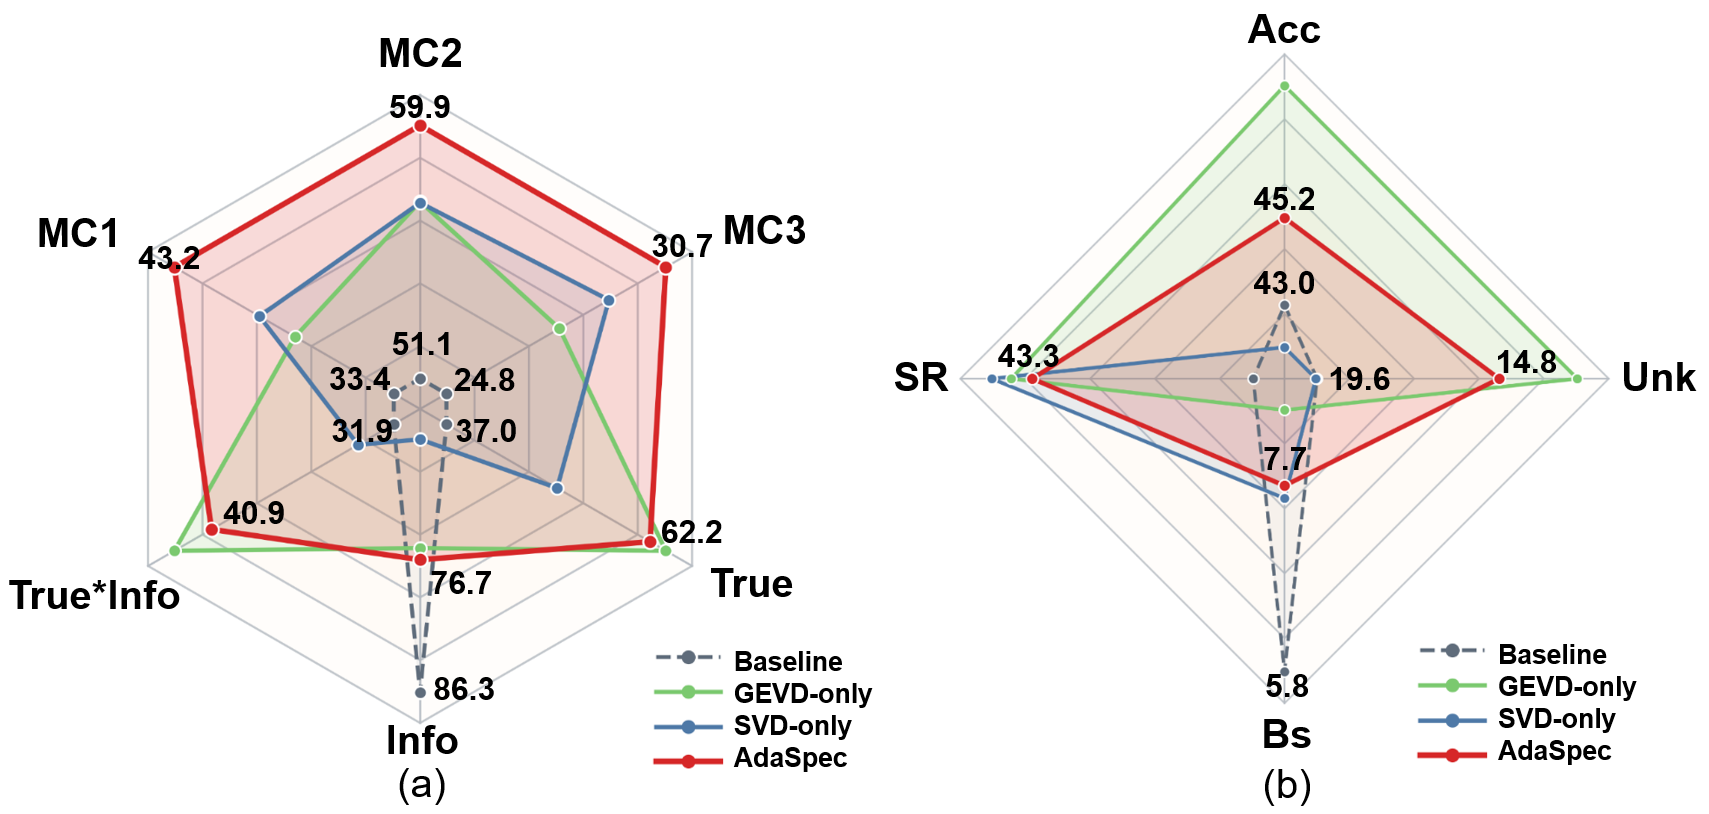
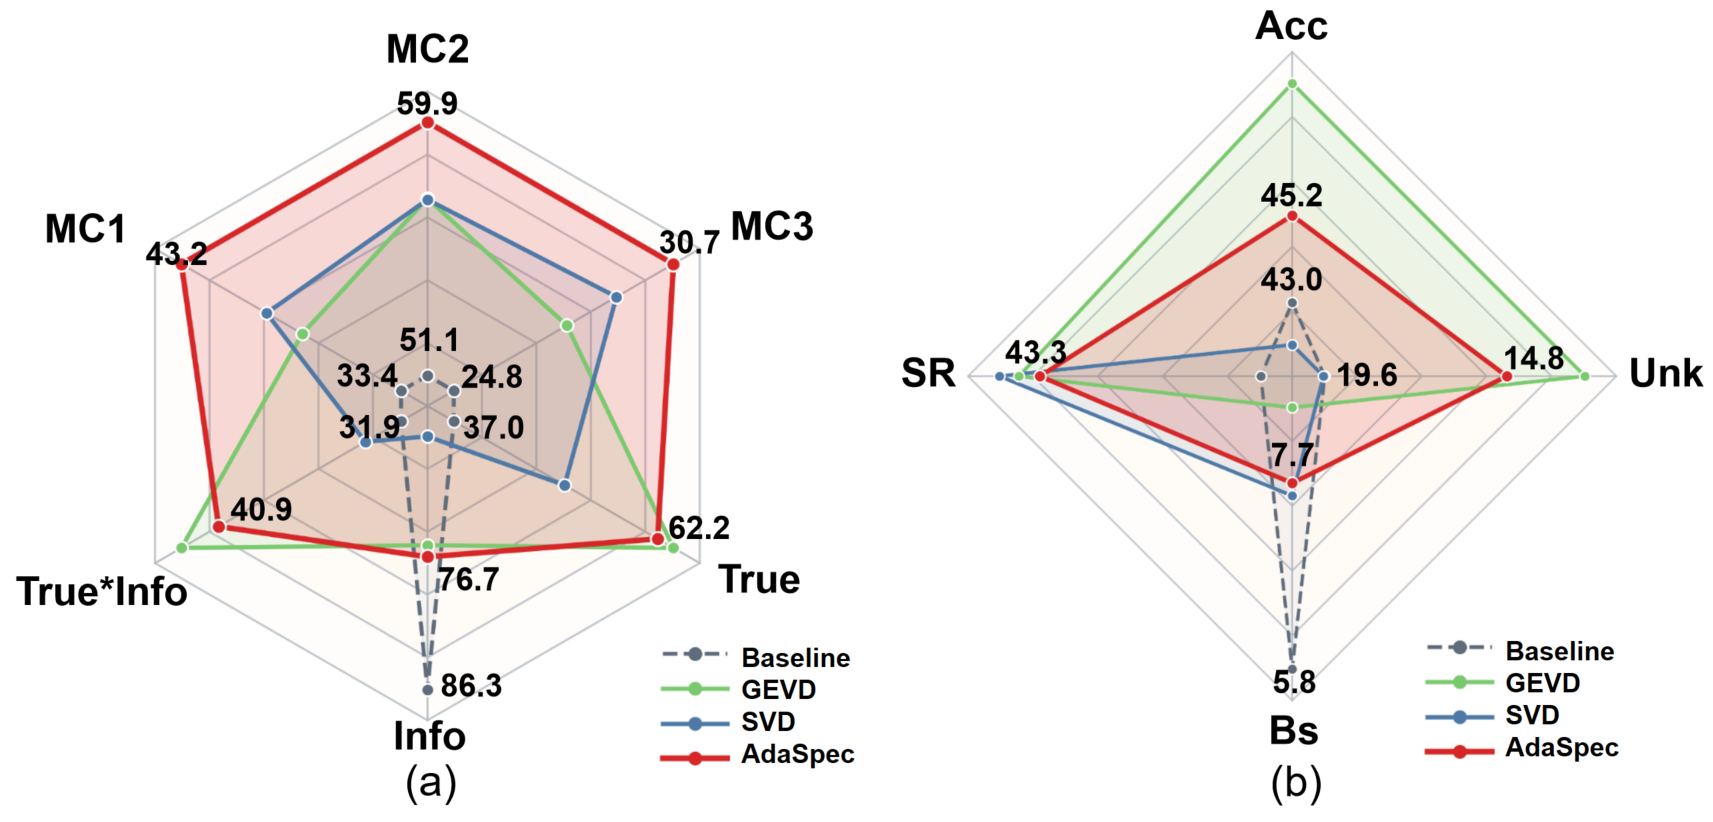
Clarify control-task evaluation and update ablation figure

diff --git a/README.md b/README.md
@@ -101,6 +101,10 @@ export GEVD_NEG=projectors/gevd/no_mean_sub_uu_negative.pt
 export PROBE=weights/probe_router/probe_router.pt
 ```
 
+## Training Code
+
+This repository is an evaluation and inference release. HaluEval activation extraction, SVD/GEVD projector training, probe-feature extraction, and probe-training code are intentionally not included in the current repository. Full training scripts, configurations, and extended reproduction resources are coming soon after the review process.
+
 ## Evaluate TruthfulQA
 
 ```bash
@@ -127,21 +131,29 @@ python bbq_eval.py \
 
 ## Evaluate General Capabilities
 
-`run_control_tasks.sh` runs methods sequentially on one GPU and writes JSON results plus `summary.md` under `results/control_tasks/`.
+The released control-task results cover four benchmarks: HellaSwag, MMLU, ToxiGen, and MathQA. `run_control_tasks.sh` runs methods sequentially on one GPU and writes JSON results plus `summary.md` under `results/control_tasks/`.
+
+### HellaSwag and MMLU
+
+These two multiple-choice benchmarks can be evaluated together in one `lm-eval-harness` invocation:
 
 ```bash
-# HellaSwag and MMLU
 METHODS="base svd_l2 gevd_l2 adaspec" \
 TASKS="hellaswag,mmlu" \
 BATCH_SIZE="auto:4" \
 bash run_control_tasks.sh
+```
 
-# ToxiGen
+### ToxiGen
+
+```bash
 METHODS="base svd_l2 gevd_l2 adaspec" \
 TASKS="toxigen" \
 BATCH_SIZE="auto:4" \
 bash run_control_tasks.sh
 ```
+
+### MathQA
 
 MathQA requires the official `MathQA.zip` to be unpacked under `data/control_tasks/mathqa/` and is then evaluated with the included local task definition:
 
